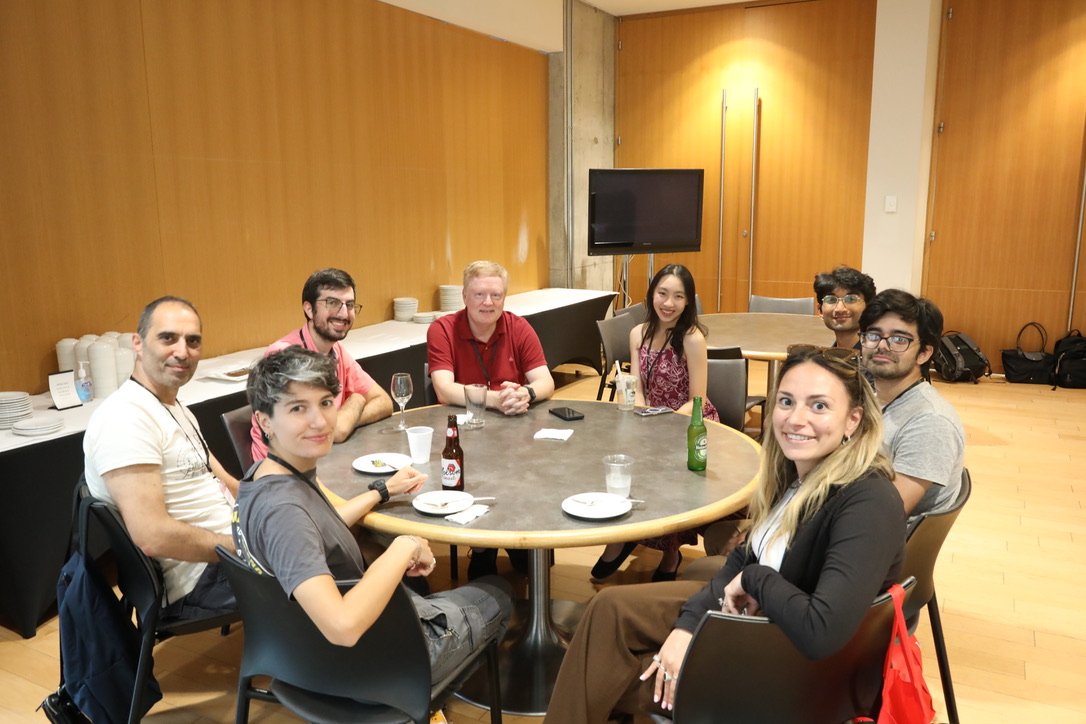
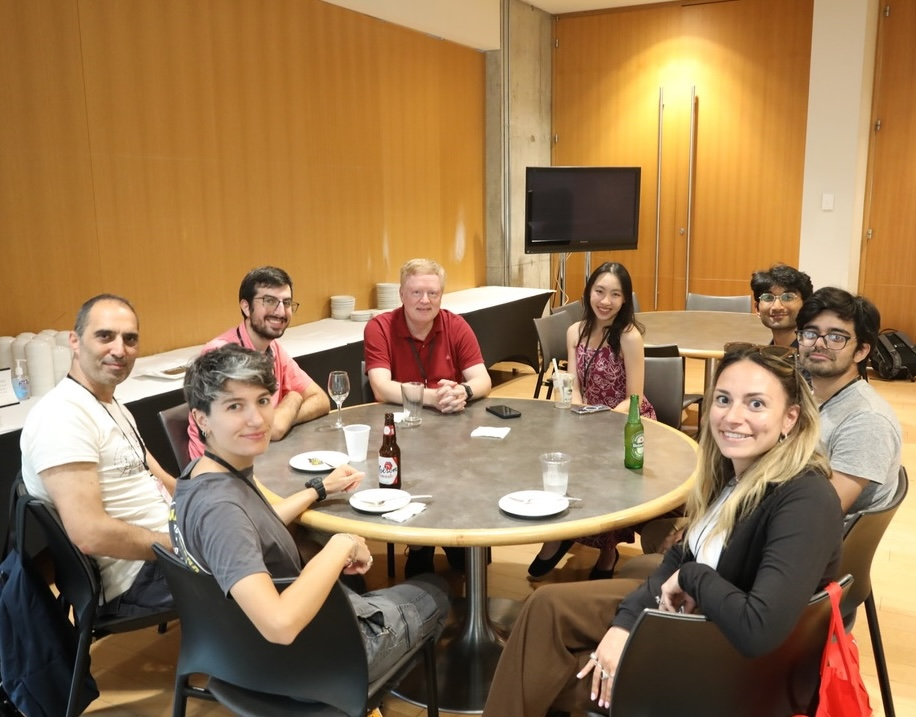
update pic

diff --git a/docs/gallery.html b/docs/gallery.html
@@ -143,7 +143,7 @@ ul.task-list li input[type="checkbox"] {
 <div>
 
 </div>
-<div class="quarto-layout-panel" data-layout="[[1,1], [1]]">
+<div class="quarto-layout-panel" data-layout="[[1,1], [1,1]]">
 <div class="quarto-layout-row">
 <div class="quarto-layout-cell" style="flex-basis: 50.0%;justify-content: flex-start;">
 <div class="quarto-figure quarto-figure-center">
@@ -163,11 +163,19 @@ ul.task-list li input[type="checkbox"] {
 </div>
 </div>
 <div class="quarto-layout-row">
-<div class="quarto-layout-cell" style="flex-basis: 100.0%;justify-content: flex-start;">
+<div class="quarto-layout-cell" style="flex-basis: 50.0%;justify-content: flex-start;">
 <div class="quarto-figure quarto-figure-center">
 <figure class="figure">
-<p><a href="imgs/cccg-group.jpeg" class="lightbox" data-gallery="quarto-lightbox-gallery-3" title="WADS/CCCG 2025"><img src="imgs/cccg-group.jpeg" class="img-fluid figure-img" alt="WADS/CCCG 2025"></a></p>
+<p><a href="imgs/cccg-group.jpg" class="lightbox" data-gallery="quarto-lightbox-gallery-3" title="WADS/CCCG 2025"><img src="imgs/cccg-group.jpg" class="img-fluid figure-img" alt="WADS/CCCG 2025"></a></p>
 <figcaption>WADS/CCCG 2025</figcaption>
+</figure>
+</div>
+</div>
+<div class="quarto-layout-cell" style="flex-basis: 50.0%;justify-content: flex-start;">
+<div class="quarto-figure quarto-figure-center">
+<figure class="figure">
+<p><a href="imgs/shion-def.png" class="lightbox" data-gallery="quarto-lightbox-gallery-4" title="Shion’s PhD Defense"><img src="imgs/shion-def.png" class="img-fluid figure-img" alt="Shion’s PhD Defense"></a></p>
+<figcaption>Shion’s PhD Defense</figcaption>
 </figure>
 </div>
 </div>

diff --git a/docs/index.html b/docs/index.html
@@ -157,7 +157,7 @@ ul.task-list li input[type="checkbox"] {
 </section>
 <section id="research" class="level2">
 <h2 data-anchor-id="research">Research</h2>
-<p>My research is in Theoretical Computer Science, with a focus on algorithms and data structures for computational geometry. I became interested in research through my work in computer science education, and that experience inspired my pursuit of a PhD. Though my path here was unexpected, I am grateful for the journey that led me to this field.</p>
+<p>My research is in theoretical computer science, with a primary interest in computational geometry, though I also explore a range of problems in algorithms and data structures. My curiosity for research grew from my early work in computer science education and was further inspired as I explored experimental algorithms and computational geometry. The path that brought me here has been unconventional, guided by the people and opportunities along the way, and I’m grateful for the journey and how it has shaped my perspective on the field.</p>
 </section>
 <section id="teaching" class="level2">
 <h2 data-anchor-id="teaching">Teaching</h2>

diff --git a/docs/teaching/cs161/cs161.html b/docs/teaching/cs161/cs161.html
@@ -146,7 +146,6 @@ ul.task-list li input[type="checkbox"] {
 <section id="algorithm-analysis" class="level3">
 <h3 class="anchored" data-anchor-id="algorithm-analysis">Algorithm Analysis</h3>
 <ul>
-<li><a href="../../posts/alg-analysis/index.html">General blog post</a></li>
 <li><a href="./master-theorem.pdf">Masters theorem lecture</a></li>
 </ul>
 
